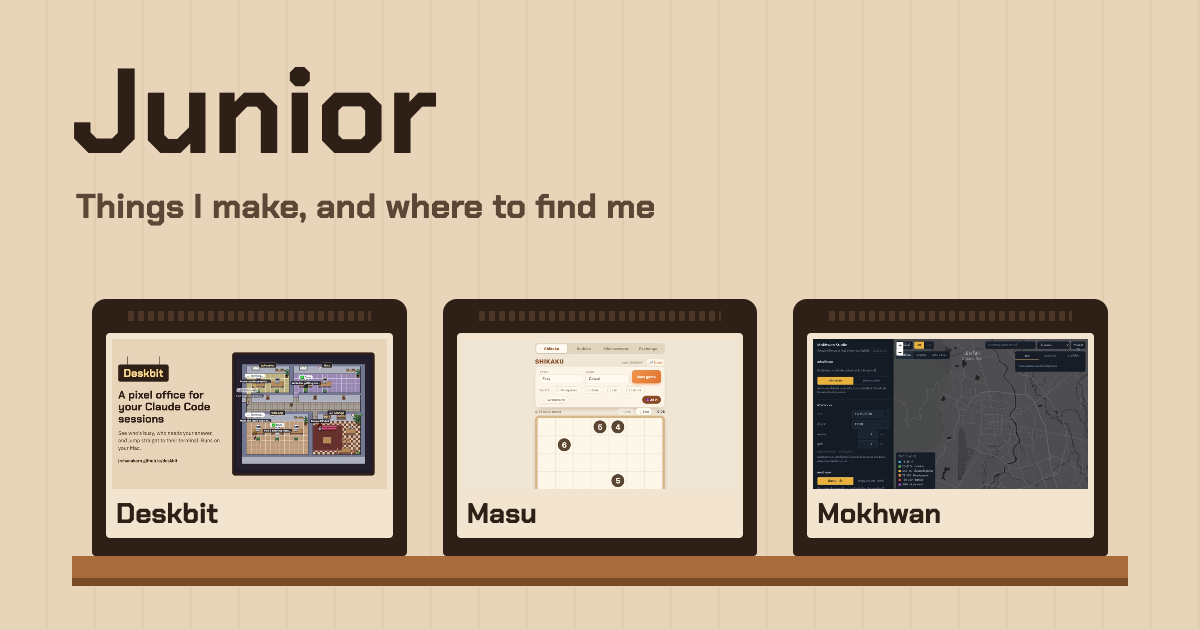
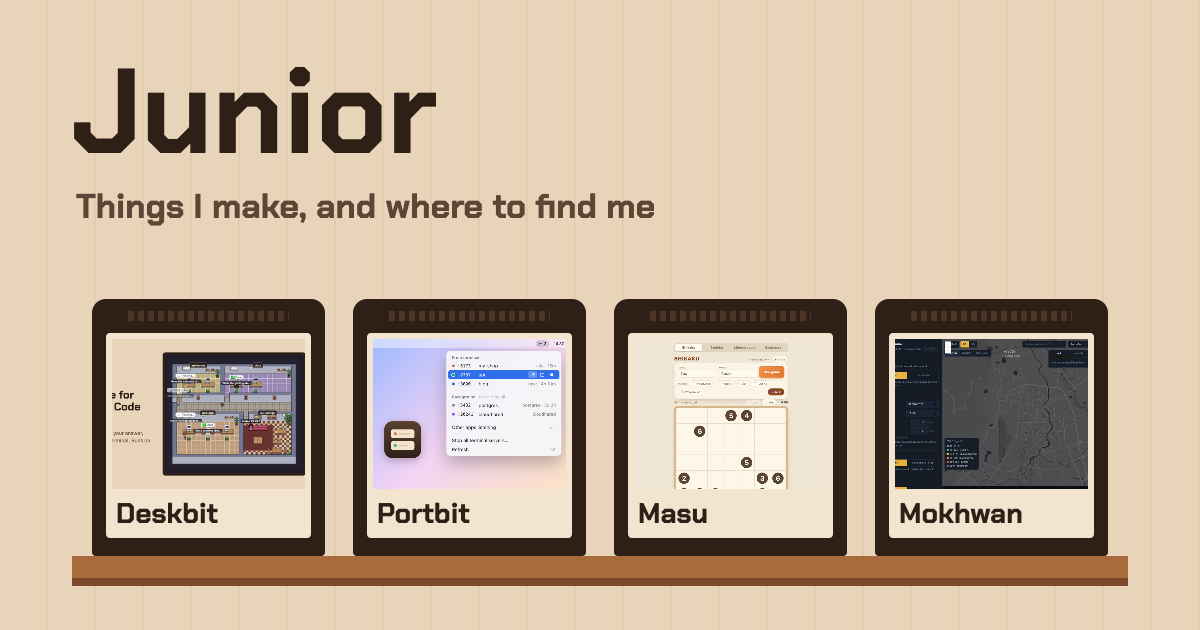
Add Portbit to the shelf
Four cartridges per shelf (two per plank on tablets), Portbit next to
Deskbit, intro and link-preview text mention it, og.png re-rendered.

Claude-Session: https://claude.ai/code/session_018iR7MpuigCBR4PypWhm1r3

Changed region(s): [[0.0925, 0.4524, 0.925, 0.9048]]

diff --git a/index.html b/index.html
@@ -4,14 +4,14 @@
     <meta charset="utf-8" />
     <meta name="viewport" content="width=device-width, initial-scale=1" />
     <title>Junior</title>
-    <meta name="description" content="Small web apps by Junior: Deskbit, Masu and Mokhwan, plus where to find me." />
+    <meta name="description" content="Small apps by Junior: Deskbit, Portbit, Masu and Mokhwan, plus where to find me." />
     <meta name="theme-color" content="#e8d5b9" />
     <link rel="icon" type="image/svg+xml" href="favicon.svg" />
     <link rel="apple-touch-icon" href="apple-touch-icon.png" />
     <!-- link previews -->
     <meta property="og:type" content="website" />
     <meta property="og:title" content="Junior: things I make" />
-    <meta property="og:description" content="Deskbit, Masu and Mokhwan: small web apps by Junior." />
+    <meta property="og:description" content="Deskbit, Portbit, Masu and Mokhwan: small apps by Junior." />
     <meta property="og:url" content="https://jrchanakarn.github.io/" />
     <meta property="og:image" content="https://jrchanakarn.github.io/og.png" />
     <meta property="og:image:width" content="1200" />
@@ -75,7 +75,7 @@
       header p { margin: 0; max-width: 54ch; font-size: 17px; line-height: 1.7; color: var(--ink-soft); }
 
       /* every cartridge as tall as the tallest, so they stand level on the shelf */
-      .shelf { display: grid; grid-template-columns: repeat(3, 1fr); gap: 28px; padding: 0 12px; }
+      .shelf { display: grid; grid-template-columns: repeat(4, 1fr); gap: 22px; padding: 0 12px; }
       .slot { display: flex; flex-direction: column; }
       .plank { height: 22px; background: var(--oak); border-bottom: 8px solid var(--oak-dark); box-shadow: 0 14px 0 rgba(46, 31, 23, 0.12); }
       .shelf + .plank { margin-bottom: 56px; }
@@ -104,6 +104,12 @@
       .pin:hover { transform: translate(-1px, -1px); box-shadow: 4px 4px 0 var(--espresso); }
       .icon { width: 24px; height: 24px; flex: none; }
 
+      /* tablets: two cartridges per shelf, a plank under each pair */
+      @media (min-width: 761px) and (max-width: 940px) {
+        .shelf { grid-template-columns: repeat(2, 1fr); gap: 0 28px; }
+        .slot::after { content: ""; display: block; height: 18px; margin: 0 -14px 40px; background: var(--oak); border-bottom: 6px solid var(--oak-dark); }
+        .shelf + .plank { display: none; }
+      }
       @media (max-width: 760px) {
         main { padding-top: 72px; }
         header { flex-direction: column; align-items: flex-start; margin-top: 0; }
@@ -133,8 +139,8 @@
         <div>
           <h1>Junior</h1>
           <p>
-            <span data-lang="en">I build small web apps: a pixel office for your AI coding sessions, grid puzzle games, and a smoke-plume simulator for open burning.</span>
-            <span data-lang="th">ผมทำเว็บแอปเล็กๆ: ออฟฟิศพิกเซลสำหรับเซสชัน AI ที่ช่วยเขียนโค้ด เกมปริศนาตาราง และตัวจำลองควันจากการเผาในที่โล่ง</span>
+            <span data-lang="en">I build small apps: a pixel office for your AI coding sessions, a menu bar app for your dev servers, grid puzzle games, and a smoke-plume simulator for open burning.</span>
+            <span data-lang="th">ผมทำแอปเล็กๆ: ออฟฟิศพิกเซลสำหรับเซสชัน AI ที่ช่วยเขียนโค้ด แอปดู dev server บน menu bar เกมปริศนาตาราง และตัวจำลองควันจากการเผาในที่โล่ง</span>
           </p>
         </div>
       </header>
@@ -149,6 +155,22 @@
             <p>
               <span data-lang="en">A pixel office for your Claude Code sessions. Every session is a little worker at a desk.</span>
               <span data-lang="th">ออฟฟิศพิกเซลสำหรับเซสชัน Claude Code ทุกเซสชันคือพนักงานตัวจิ๋วที่นั่งประจำโต๊ะ</span>
+            </p>
+            <div class="chips">
+              <span class="chip"><span data-lang="en">Mac app</span><span data-lang="th">แอป Mac</span></span>
+              <span class="chip"><span data-lang="en">Free</span><span data-lang="th">ฟรี</span></span>
+            </div>
+          </a>
+        </div>
+        <div class="slot">
+          <a class="cart" href="https://jrchanakarn.github.io/portbit/">
+            <div class="label">
+              <img src="img/portbit.jpg" alt="" width="720" height="540" loading="lazy" />
+              <h2>Portbit</h2>
+            </div>
+            <p>
+              <span data-lang="en">See every dev server running on your Mac from the menu bar, who started it, and stop it in one click.</span>
+              <span data-lang="th">ดู dev server ทุกตัวที่เปิดอยู่ในเครื่องจาก menu bar รู้ว่าใครเปิด และสั่งปิดได้ในคลิกเดียว</span>
             </p>
             <div class="chips">
               <span class="chip"><span data-lang="en">Mac app</span><span data-lang="th">แอป Mac</span></span>

diff --git a/og/og.html b/og/og.html
@@ -14,7 +14,7 @@
       }
       h1 { position: absolute; left: 72px; top: 52px; margin: 0; font-size: 120px; line-height: 1; }
       p { position: absolute; left: 76px; top: 184px; margin: 0; font-size: 34px; color: #5e4636; }
-      .shelf { position: absolute; left: 72px; right: 72px; bottom: 74px; display: flex; gap: 36px; padding: 0 20px; align-items: flex-end; }
+      .shelf { position: absolute; left: 72px; right: 72px; bottom: 74px; display: flex; gap: 28px; padding: 0 20px; align-items: flex-end; }
       .cart { flex: 1; background: #2e1f17; border-radius: 14px 14px 4px 4px; padding: 16px 14px 18px; }
       .cart::before { content: ""; display: block; height: 10px; margin: -4px 22px 12px; background: repeating-linear-gradient(90deg, #4a3527 0 6px, transparent 6px 10px); }
       .label { background: #f2e4cf; padding: 6px; border-radius: 4px; }
@@ -28,6 +28,7 @@
     <p>Things I make, and where to find me</p>
     <div class="shelf">
       <div class="cart"><div class="label"><img src="../img/deskbit.jpg" style="object-position: 85% 40%" /><b>Deskbit</b></div></div>
+      <div class="cart"><div class="label"><img src="../img/portbit.jpg" /><b>Portbit</b></div></div>
       <div class="cart"><div class="label"><img src="../img/masu.jpg" /><b>Masu</b></div></div>
       <div class="cart"><div class="label"><img src="../img/mokhwan.jpg" /><b>Mokhwan</b></div></div>
     </div>
